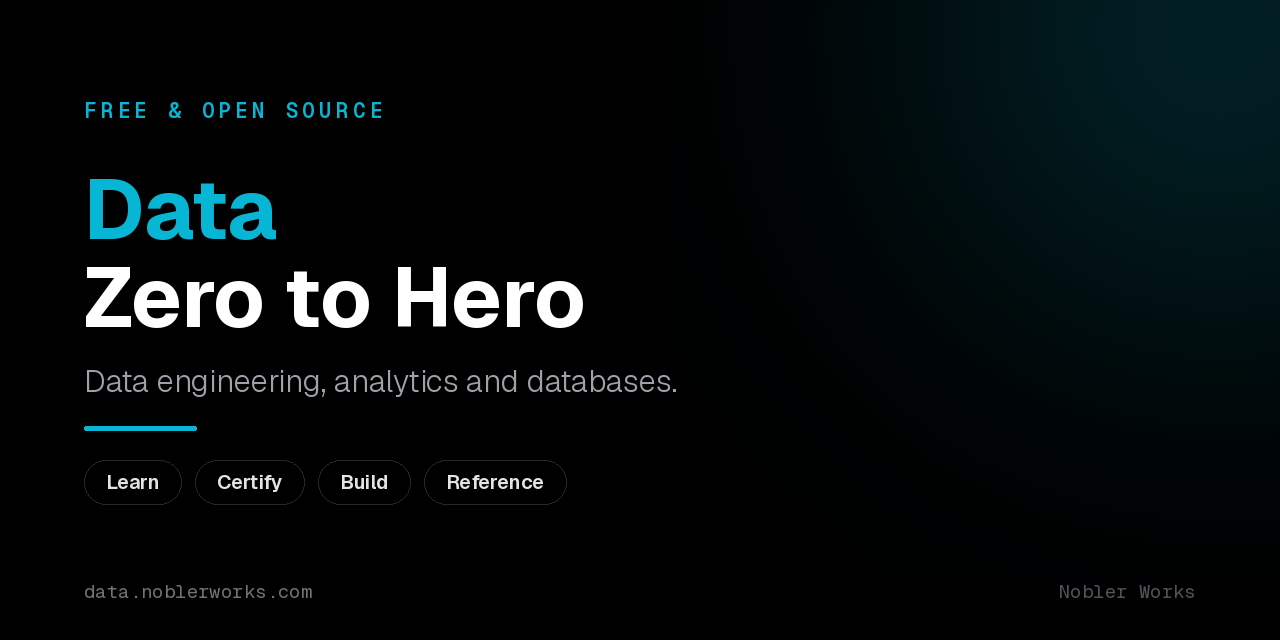
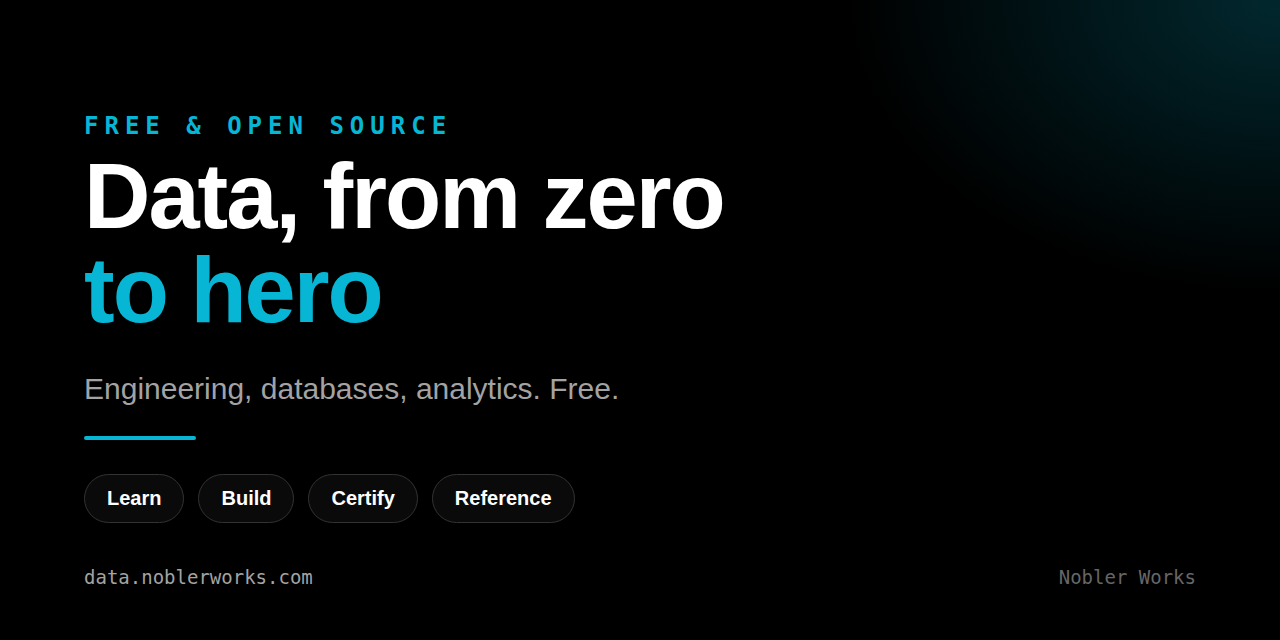
Same pattern on all four: "<Subject>, from zero to hero" home title and one shared social card template

diff --git a/assets/brand/social-preview.html b/assets/brand/social-preview.html
@@ -1,0 +1,31 @@
+<!doctype html>
+<!-- Social preview card (1280x640). One template for all four Zero to Hero sites
+     (cloud / data / security / ai .noblerworks.com) - change all four together.
+     Render: serve this folder over http and screenshot at 1280x640 into
+     social-preview-1280x640.png (headless Chromium or Playwright). No counts on the
+     card: a number baked into an image is a number nothing checks. -->
+<html><head><meta charset="utf-8">
+<style>
+  html,body{margin:0;padding:0;background:#000}
+  .card{width:1280px;height:640px;box-sizing:border-box;padding:0 84px;position:relative;overflow:hidden;
+    background:radial-gradient(ellipse 620px 420px at 100% 0%, rgba(6,182,212,0.22), transparent 70%), #000;
+    font-family:"Inter","Helvetica Neue",Arial,sans-serif;color:#fff}
+  .kicker{position:absolute;top:112px;font-family:"DejaVu Sans Mono",monospace;font-size:24px;letter-spacing:6px;color:#06b6d4;font-weight:700}
+  h1{position:absolute;top:150px;margin:0;font-size:92px;line-height:1.02;font-weight:800;letter-spacing:-2px}
+  h1 .a{color:#06b6d4}
+  .sub{position:absolute;top:372px;font-size:30px;color:#a3a3a3}
+  .rule{position:absolute;top:436px;width:112px;height:4px;background:#06b6d4;border-radius:2px}
+  .chips{position:absolute;top:474px;display:flex;gap:14px}
+  .chip{border:1px solid #333;border-radius:28px;padding:12px 22px;font-size:20px;font-weight:700;background:#0a0a0a}
+  .url{position:absolute;bottom:52px;font-family:"DejaVu Sans Mono",monospace;font-size:19px;color:#a3a3a3}
+  .brand{position:absolute;bottom:52px;right:84px;font-family:"DejaVu Sans Mono",monospace;font-size:19px;color:#666}
+</style></head>
+<body><div class="card">
+  <div class="kicker">FREE &amp; OPEN SOURCE</div>
+  <h1>Data, from zero<br><span class="a">to hero</span></h1>
+  <div class="sub">Engineering, databases, analytics. Free.</div>
+  <div class="rule"></div>
+  <div class="chips"><div class="chip">Learn</div><div class="chip">Build</div><div class="chip">Certify</div><div class="chip">Reference</div></div>
+  <div class="url">data.noblerworks.com</div>
+  <div class="brand">Nobler Works</div>
+</div></body></html>

diff --git a/.github/site-overrides/main.html b/.github/site-overrides/main.html
@@ -10,7 +10,7 @@
   build.
 
   The image is assets/brand/social-preview-1280x640.png, generated by
-  .github/scripts/build-social-card.py and the same file uploaded to GitHub's own
+  assets/brand/social-preview.html (one template shared by all four Zero to Hero sites) and the same file uploaded to GitHub's own
   social preview, so the repo and the site present identically.
 
   NOTE: like partials/nav-item.html, this couples the site to Material's template

diff --git a/CONTRIBUTING.md b/CONTRIBUTING.md
@@ -167,7 +167,7 @@ Several scripts live under `.github/scripts/`. The validators run in CI on every
 - `glossary-upgrade-existing-links.py` - upgrades old section-level glossary links to per-term anchors when an anchor is available.
 
 - `check-repo-metadata.py` - checks the GitHub repository description, homepage and topics against the tree. The description is generated from `docs/certs.json`, never typed. `--fix` patches it, and needs admin rights, so it runs locally rather than in CI.
-- `build-social-card.py` - renders `assets/brand/social-preview-1280x640.png`, used both as GitHub's social preview and as the site's Open Graph image. Needs `pillow`.
+- `assets/brand/social-preview.html` - the social preview card template (same layout on all four Zero to Hero sites); screenshot it at 1280x640 into `assets/brand/social-preview-1280x640.png`, used both as GitHub's social preview and the site's Open Graph image.
 
 **CI workflows under `.github/workflows/`:**
 

diff --git a/.github/site/home.md b/.github/site/home.md
@@ -24,7 +24,7 @@
 
 <div class="home-hero" markdown>
 
-# Data Zero to Hero { .home-title }
+# Data, from zero to hero { .home-title }
 
 <p class="home-intro">Data engineering, analytics and databases from absolute zero: plain-English concepts, hands-on builds, architecture patterns, and study guides for every major data certification - free, no signup, nothing gated.</p>
 
